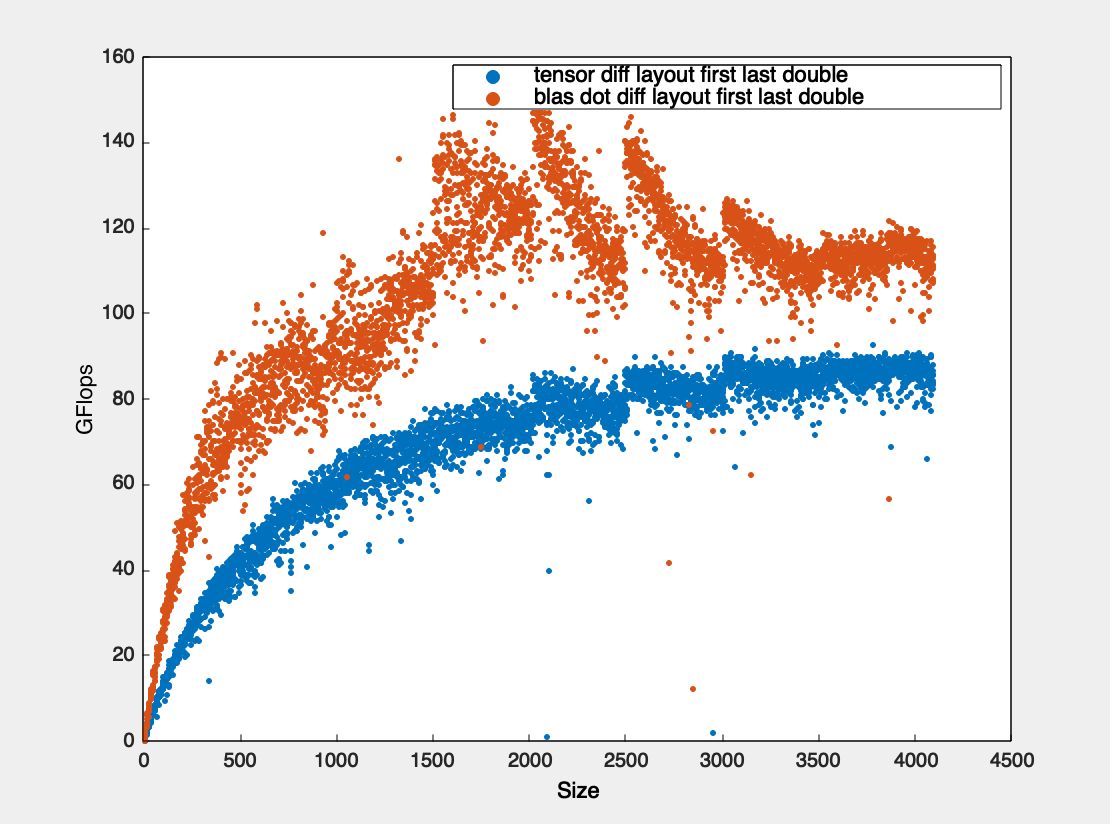
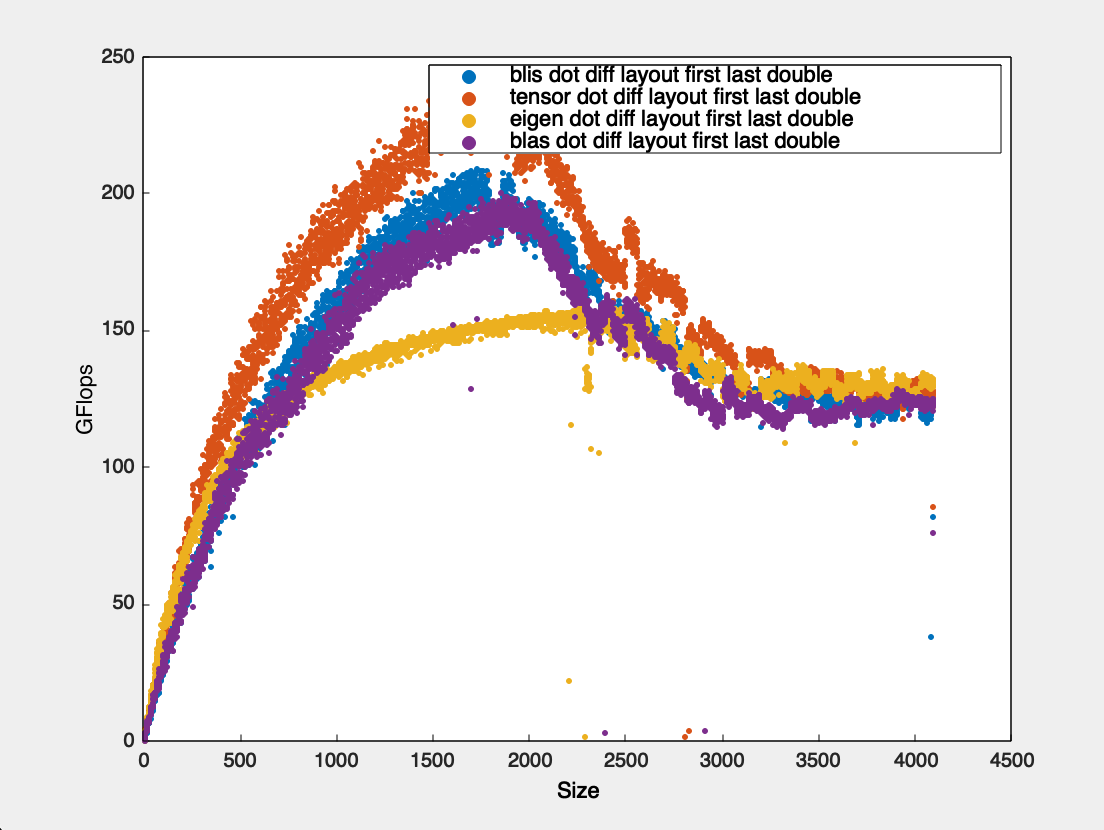
fixing dot product and updating performance graphs

diff --git a/include/dot.hpp b/include/dot.hpp
@@ -4,12 +4,14 @@
 #include <boost/numeric/ublas/tensor.hpp>
 #include <omp.h>
 #include <optional>
-#include <x86intrin.h>
+
+#define AMT_INLINE __attribute__((always_inline))
+#define AMT_NO_OPT __attribute__ ((optnone))
 
 namespace amt {
 
     template<typename Out, typename In, typename SizeType>
-    void dot_prod_helper_ref(
+    AMT_NO_OPT void dot_prod_helper_ref(
         Out* c,
         In const* a,
         In const* b, 
@@ -20,9 +22,12 @@ namespace amt {
         
         using value_type = std::remove_pointer_t<Out>;
         value_type sum = {0};
-
+        auto ai = a;
+        auto bi = b;
         for(auto i = 0ul; i < n; ++i){
-            sum += (a[i] * b[i]);
+            sum += *ai * *bi;
+            ++ai;
+            ++bi;
         }
 
         *c = sum;
@@ -51,7 +56,7 @@ namespace amt {
     // }
 
     template<typename Out, typename In, typename SizeType>
-    void dot_prod_helper(
+    AMT_INLINE void dot_prod_helper(
         Out* c,
         In const* a,
         In const* b, 
@@ -61,11 +66,11 @@ namespace amt {
         static_assert(std::is_same_v<Out,In>);
         
         using value_type = std::remove_pointer_t<Out>;
-        [[maybe_unused]] constexpr auto block = (256ul / (sizeof(value_type) * 8ul)) * 16ul;
         [[maybe_unused]] constexpr auto alignment = alignof(value_type);
         value_type sum = {0};
     
-        #pragma omp simd reduction(+:sum) safelen(16) aligned(a,b:alignment)
+        // #pragma omp simd
+        #pragma omp parallel for reduction(+:sum) schedule(dynamic)
         for(auto i = 0ul; i < n; ++i){
             sum += (a[i] * b[i]);
         }
@@ -100,22 +105,28 @@ namespace amt {
 
     // }
 
-    template<typename Out, typename E1, typename E2>
+    template<typename Out, typename E1, typename E2, typename... Timer>
     constexpr void dot_prod(
         Out& c,
         boost::numeric::ublas::tensor_core<E1> const& a,
-        boost::numeric::ublas::tensor_core<E2> const& b
+        boost::numeric::ublas::tensor_core<E2> const& b,
+        Timer&... t
     )
     {
         using tensor_type1 = boost::numeric::ublas::tensor_core<E1>;
         using tensor_type2 = boost::numeric::ublas::tensor_core<E2>;
-
         static_assert(
             std::is_same_v< typename tensor_type1::value_type, typename tensor_type2::value_type > && 
             std::is_same_v< Out, typename tensor_type2::value_type >,
             "both tensor type and result type must be of same value_type"
         );
+
+        static_assert(
+            sizeof...(Timer) <= 1u,
+            "there can only be one profiler"
+        );
         
+        std::tuple<Timer&...> timer(t...);
         auto const& na = a.extents();
         auto const& nb = b.extents();
 
@@ -135,20 +146,32 @@ namespace amt {
                 "both vector must be of same size"
             );
         }
-
-        dot_prod_helper(
-            &c,
-            a.data(),
-            b.data(),
-            NA
-        );
+        
+        if constexpr(sizeof...(Timer) > 0u){
+            std::get<0>(timer).start();
+            dot_prod_helper(
+                &c,
+                a.data(),
+                b.data(),
+                NA
+            );
+            std::get<0>(timer).stop();
+        }else{
+            dot_prod_helper(
+                &c,
+                a.data(),
+                b.data(),
+                NA
+            );
+        }
     }
 
-    template<typename Out, typename E1, typename E2>
+    template<typename Out, typename E1, typename E2, typename... Timer>
     constexpr void dot_prod_ref(
         Out& c,
         boost::numeric::ublas::tensor_core<E1> const& a,
-        boost::numeric::ublas::tensor_core<E2> const& b
+        boost::numeric::ublas::tensor_core<E2> const& b,
+        Timer&... t
     )
     {
         using tensor_type1 = boost::numeric::ublas::tensor_core<E1>;
@@ -159,6 +182,13 @@ namespace amt {
             std::is_same_v< Out, typename tensor_type2::value_type >,
             "both tensor type and result type must be of same value_type"
         );
+        
+        static_assert(
+            sizeof...(Timer) <= 1u,
+            "there can only be one profiler"
+        );
+        
+        std::tuple<Timer&...> timer(t...);
         
         auto const& na = a.extents();
         auto const& nb = b.extents();
@@ -180,12 +210,23 @@ namespace amt {
             );
         }
 
-        dot_prod_helper_ref(
-            &c,
-            a.data(),
-            b.data(),
-            NA
-        );
+        if constexpr(sizeof...(Timer) > 0u){
+            std::get<0>(timer).start();
+            dot_prod_helper_ref(
+                &c,
+                a.data(),
+                b.data(),
+                NA
+            );
+            std::get<0>(timer).stop();
+        }else{
+            dot_prod_helper_ref(
+                &c,
+                a.data(),
+                b.data(),
+                NA
+            );
+        }
     }
 
 } // namespace amt

diff --git a/src/dot.cpp b/src/dot.cpp
@@ -141,9 +141,9 @@ int ref_same_layout(std::vector<double> const& x, amt::metric& m){
         ub::dynamic_tensor<ValueType> v1(ub::extents<>{1ul, sz},3.), v2(ub::extents<>{1ul, sz}, 3.);
         amt::timer t{};
         {   
-            amt::dot_prod(ret, v1, v2);
+            amt::dot_prod_ref(ret, v1, v2, t);
         }
-        auto st = t.stop();
+        auto st = t();
         m.update_ref((ops / st) * 10e-9);
     }
     return static_cast<int>(ret);
@@ -165,9 +165,9 @@ int tensor_same_layout(std::vector<double> const& x, amt::metric& m){
         ub::dynamic_tensor<ValueType> v1(ub::extents<>{1ul, sz},3.), v2(ub::extents<>{1ul, sz}, 3.);
         amt::timer t{};
         {   
-            amt::dot_prod(ret, v1, v2);
+            amt::dot_prod(ret, v1, v2, t);
         }
-        auto st = t.stop();
+        auto st = t();
         metric_data.update((ops / st) * 10e-9);
     }
     return static_cast<int>(ret);
@@ -248,9 +248,9 @@ int ref_dot_diff_layout(std::vector<double> const& x, amt::metric& m){
         ub::dynamic_tensor<ValueType, other_layout> v2(ub::extents<>{1ul, sz}, 3.);
         amt::timer t{};
         {   
-            amt::dot_prod_ref(ret, v1, v2);
+            amt::dot_prod_ref(ret, v1, v2, t);
         }
-        auto st = t.stop();
+        auto st = t();
         m.update_ref((ops / st) * 10e-9);
     }
     return static_cast<int>(ret);
@@ -280,9 +280,9 @@ int tensor_dot_diff_layout(std::vector<double> const& x, amt::metric& m){
         ub::dynamic_tensor<ValueType, other_layout> v2(ub::extents<>{1ul, sz}, 3.);
         amt::timer t{};
         {   
-            amt::dot_prod(ret, v1, v2);
+            amt::dot_prod(ret, v1, v2, t);
         }
-        auto st = t.stop();
+        auto st = t();
         metric_data.update((ops / st) * 10e-9);
     }
     return static_cast<int>(ret);
@@ -406,9 +406,9 @@ int eigen_dot_diff_layout(std::vector<double> const& x, amt::metric& m){
 // #define SPEEDUP_PLOT
 
 int main(){
-    // using value_type = float;
-    using value_type = double;
-    constexpr auto max_size = 4096ul;
+    using value_type = float;
+    // using value_type = double;
+    constexpr auto max_size = 4096;
     
 #ifndef ENABLE_TEST
 

diff --git a/include/metric.hpp b/include/metric.hpp
@@ -135,10 +135,10 @@ namespace amt{
                 os << "Name: "<< k << '\n';
                 os << '\t' << "Min GFlops: "<<v.min<<'\n';
                 os << '\t' << "Max GFlops: "<<v.max<<'\n';
-                os << '\t' << "Max SpeedUp: "<<((v.max / m.m_ref.max) * 100.)<<'\n';
+                os << '\t' << "Max SpeedUp: "<<((v.max / m.m_ref.max))<<'\n';
                 os << '\t' << "Max Peak Utilization in %: "<< (v.max / peak_performance) * 100. <<'\n';
                 os << '\t' << "Avg GFlops: "<<avg<<'\n';
-                os << '\t' << "Avg SpeedUp: "<<((avg / ref_avg) * 100.)<<'\n';
+                os << '\t' << "Avg SpeedUp: "<<((avg / ref_avg))<<'\n';
                 os << '\t' << "Avg Peak Utilization in %: "<< (avg / peak_performance) * 100. <<'\n' << '\n';
             }
             return os;
